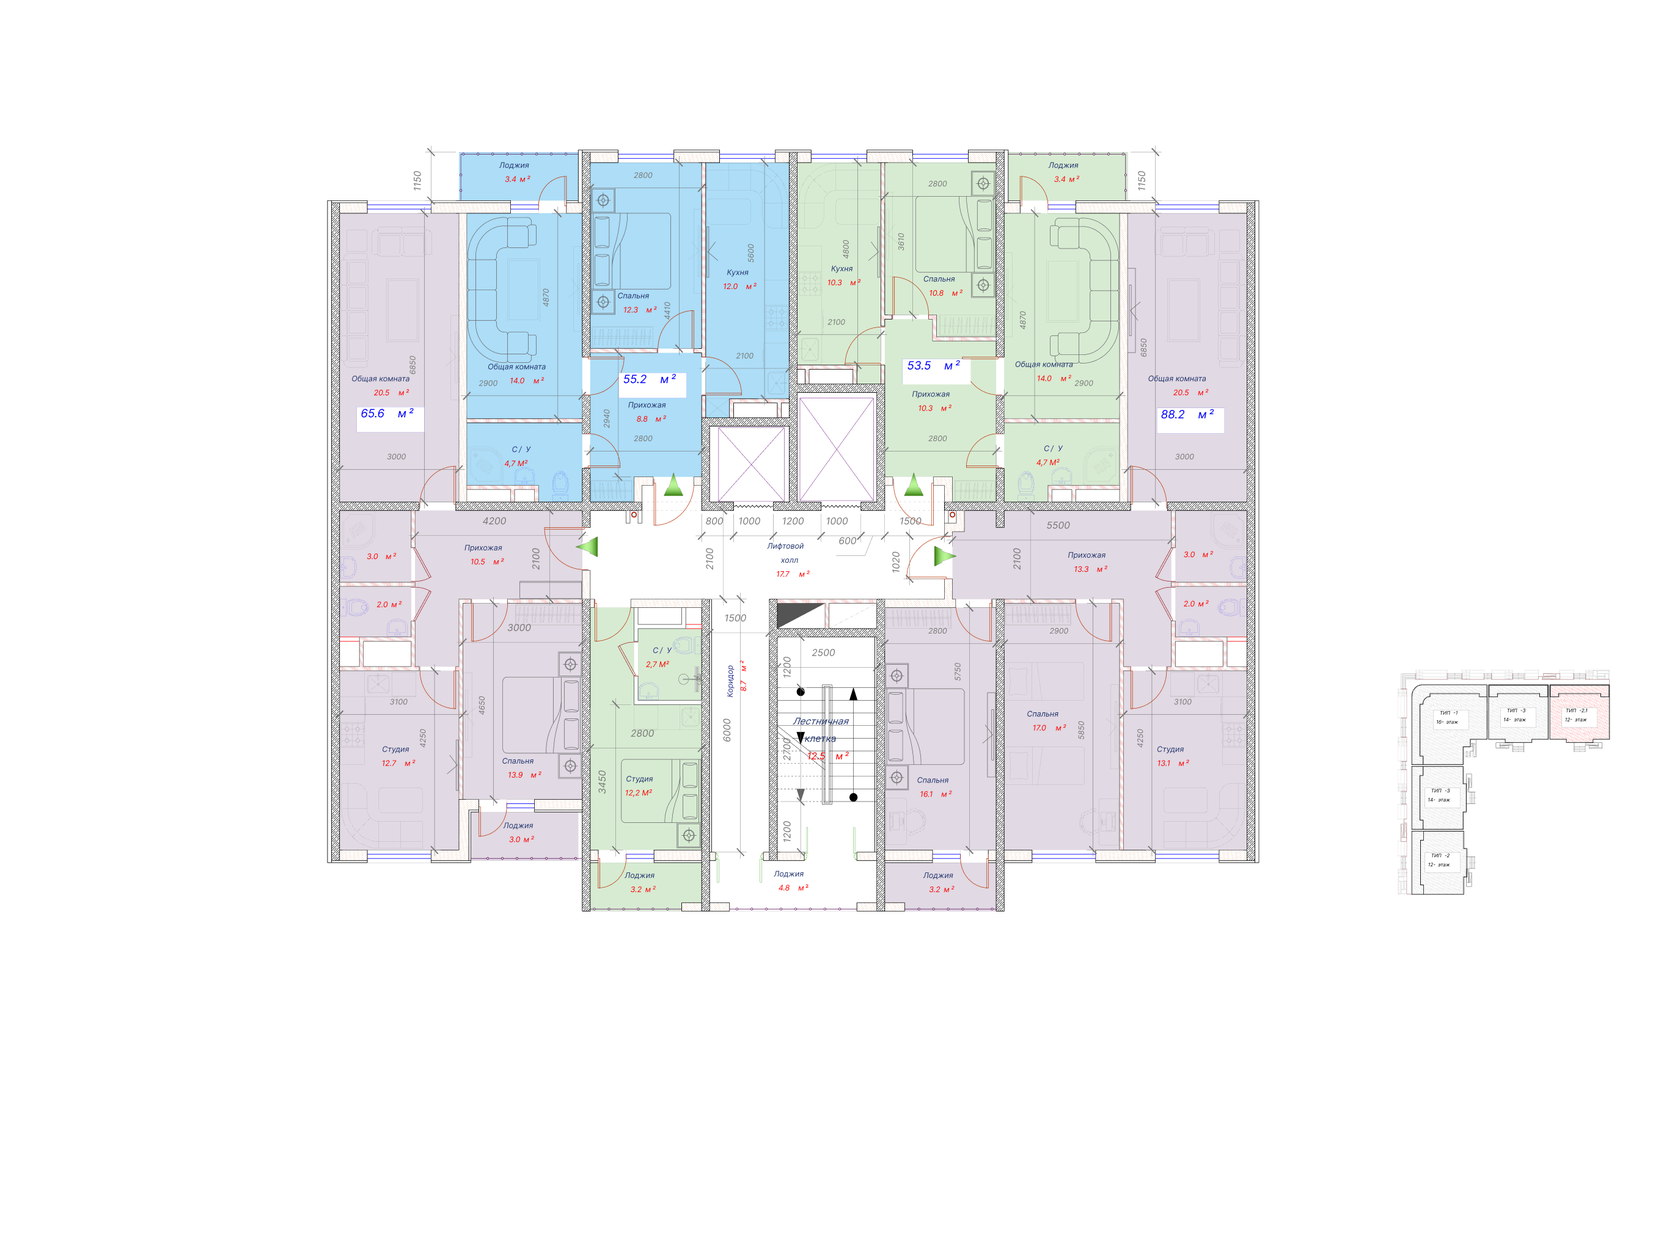
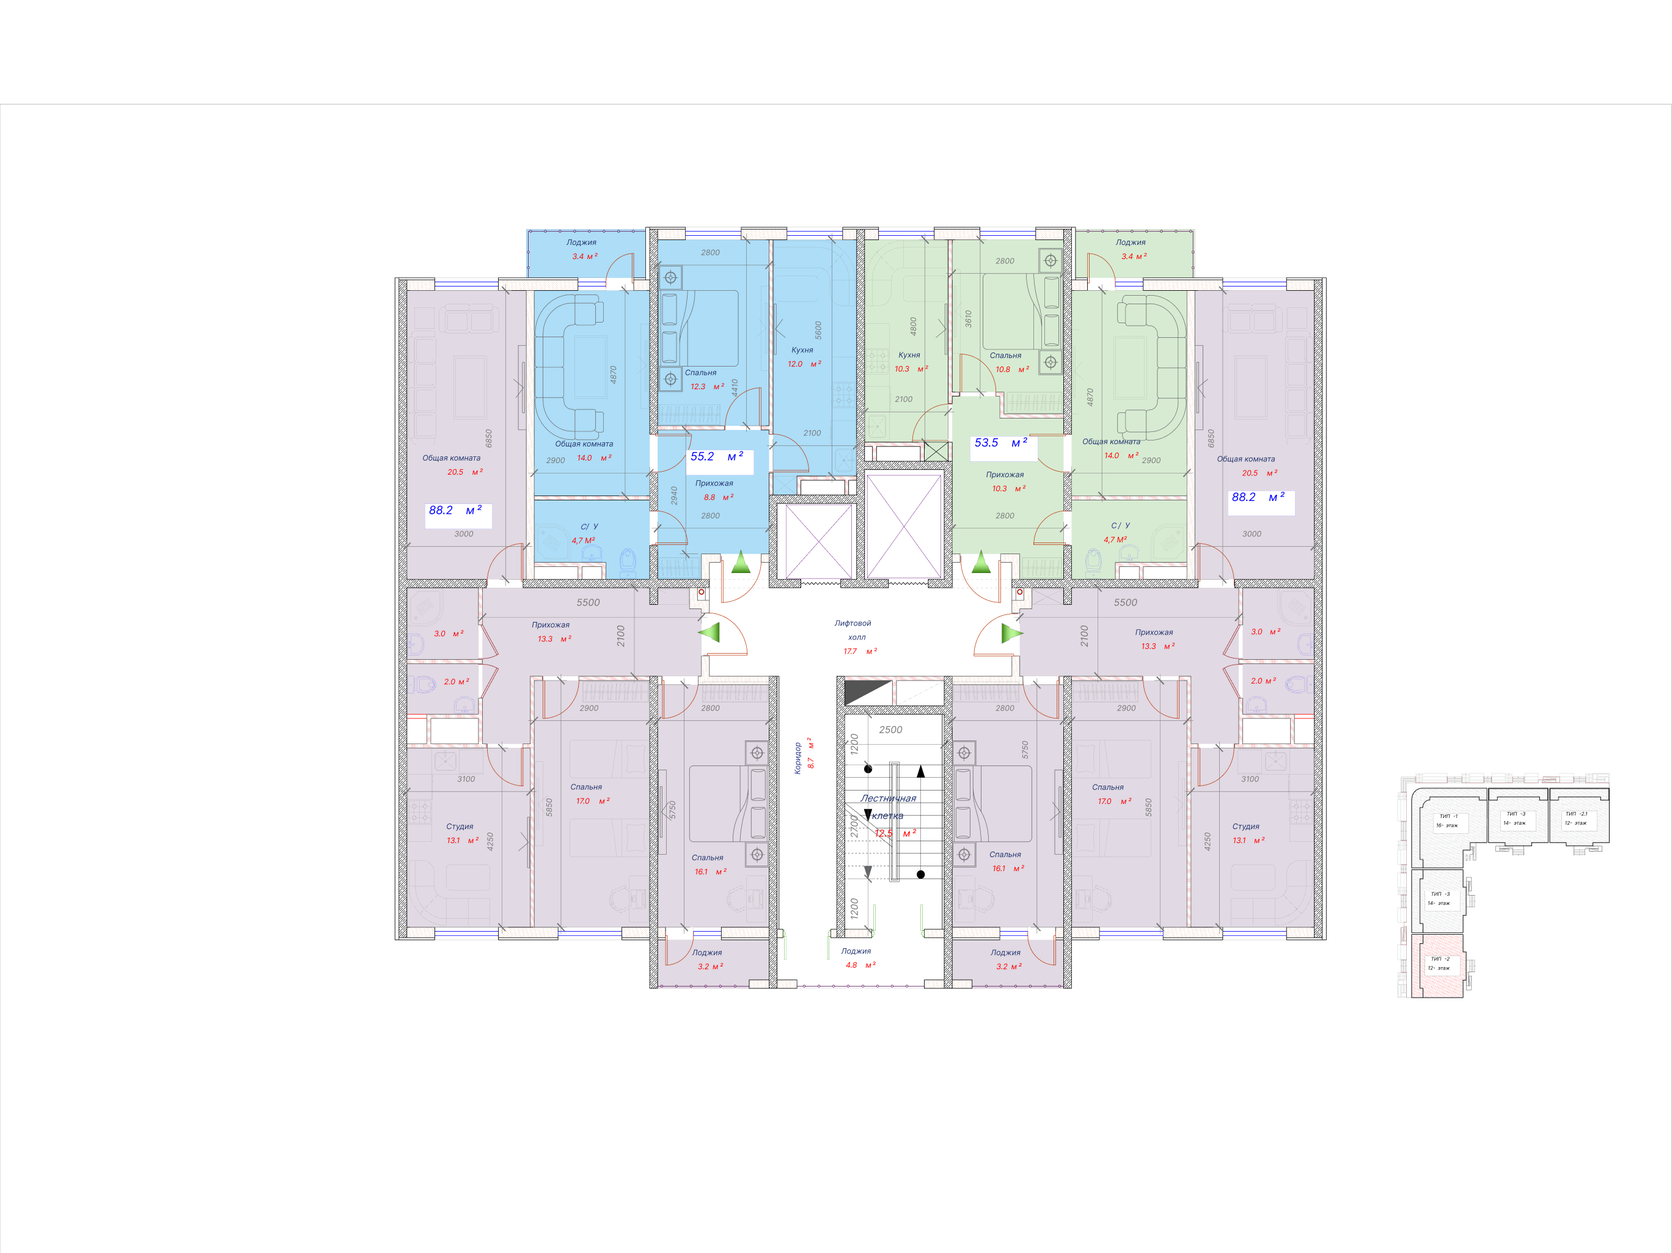
ready all blocks

Changed region(s): [[0.1864, 0.0936, 0.8077, 0.8113], [0.8388, 0.5305, 0.9631, 0.8113]]

diff --git a/src/data/floorData.js b/src/data/floorData.js
@@ -5,18 +5,87 @@ export const floorData = {
                 viewBox: "0 0 2736 2051",
                 image: '1-Block-Floors-2-12',
                 apartments: [
-                    { id: 'apartment-1', d: "M960.199 1492.18V980.726H1154.35V1492.18H960.199Z", text: "1-xonadon", area: 18.1, rooms: '1' },
-                    { id: 'apartment-2', d: "M536.152 330.64H752.238H760.361V831.766H960.2V1410.39L536.965 1415.55L536.152 330.64Z", text: "2-xonadon", area: 65.6, rooms: '2' },
-                    { id: 'apartment-3', d: "M750.613 248.841V330.64H760.361V831.766L1155.16 827.46V688.833H1298.14V248.841H750.613Z", text: "3-xonadon", area: 55.2, rooms: '2' },
-                    { id: 'apartment-4', d: "M1839.98 248.841H1298.14V636.309H1441.11V828.322H1839.98V248.841Z", text: "4-xonadon", area: 53.5, rooms: '2' },
-                    { id: 'apartment-5', d: "M2060.12 331.501H1840.79L1839.98 828.322H1551.59V980.726H1439.49V1492.18L1643.39 1489.6V1411.25H2060.12V331.501Z", text: "5-xonadon", area: 88.2, rooms: '3' },
+                    { id: 'apartment-1', d: "M1265.5 1107.5V1618H1062V1539H646.5V466H869V954.5H1141.5V984H1162V1107.5H1265.5Z", text: "1-xonadon", area: 88.2, rooms: '3' },
+                    { id: 'apartment-2', d: "M1161 954.5H1141.5H869V466H860.5L861.5 375L1408 371.5V818.5H1264.5V920.5H1161V954.5Z", text: "2-xonadon", area: 52.2, rooms: '2' },
+                    { id: 'apartment-3', d: "M1550 763.5H1408V376H1949V955H1550V763.5Z", text: "3-xonadon", area: 53.5, rooms: '2' },
+                    { id: 'apartment-4', d: "M2170.5 454.5H1949V955H1655V1106H1552V1618H1754V1538.5H2170.5V454.5Z", text: "4-xonadon", area: 88.2, rooms: '3' },
                 ],
                 appliesTo: [3, 4, 5, 6, 7, 8, 9, 10, 11, 12]
+            },
+            // 1-qavat rejasi (do'konlar)
+            'floor-1': {
+                viewBox: "0 0 2736 2051",
+                image: 'Block1-Floor-1',
+                apartments: [
+                    { id: 'apartment-1', d: "M940 465.5H614V1544L936 1535.5V1606H1090.5V1214H1004.5V1087.5H940V465.5Z", text: "1-do'kon", area: 140.0, rooms: '1' },
+                    { id: 'apartment-2', d: "M940 987V465.5H1204.5V987H940Z", text: "2-do'kon", area: 46.7, rooms: '1' },
+                    { id: 'apartment-3', d: "M1204.5 943V465.5H1469.5V1603H1310.5V943H1204.5Z", text: "3-do'kon", area: 76.5, rooms: '1' },
+                    { id: 'apartment-4', d: "M1469.5 1541.5V465.5H1794.5V1541.5H1469.5Z", text: "4-do'kon", area: 118.0, rooms: '1' },
+                ],
+                appliesTo: [1]
+            },
+            // 13-qavat rejasi
+            'floor-13': {
+                viewBox: "0 0 2736 2051",
+                image: 'Block1-Floor-13',
+                apartments: [
+                    { id: 'apartment-1', d: "M1048 767.5H719.5L718.5 1380.5H1042V1444.5H1207V1043.5H1120V924.5H1048V767.5Z", text: "1-xonadon", area: 101.8, rooms: '3' },
+                    { id: 'apartment-2', d: "M1576.5 768H1909.5L1910 1380.5H1588V1445H1427.5V1043.5H1508.5V918H1576.5V768Z", text: "2-xonadon", area: 101.3, rooms: '3' },
+                ],
+                appliesTo: [13]
+            },
+            // 2-qavat rejasi
+            'floor-2': {
+                viewBox: "0 0 2736 2051",
+                image: 'Block1-Floor-2',
+                apartments: [
+                    { id: 'apartment-1', d: "M723 353.5H553.5V1445.5H879.5V1510.5H1040.5V1105H955V985.5H723V353.5Z", text: "1-xonadon", area: 92, rooms: '3' },
+                    { id: 'apartment-2', d: "M1151.5 353.5H723V985.5H1038.5V876.5H1151.5V353.5Z", text: "2-xonadon", area: 62.4, rooms: '2' },
+                    { id: 'apartment-3', d: "M1578.5 353.5H1151.5V833.5H1261V985.5H1578.5V353.5Z", text: "3-xonadon", area: 60.8, rooms: '2' },
+                    { id: 'apartment-4', d: "M1578.5 985.5V353.5H1749.5V1445H1423V1511H1262V1108.5H1346V985.5H1578.5Z", text: "4-xonadon", area: 92, rooms: '3' },
+                ],
+                appliesTo: [2]
             }
         }
     },
     '2': {
         floorPlans: {
+            // 1-qavat rejasi
+            'floor-1': {
+                viewBox: "0 0 2736 2051",
+                image: '2-4-Block-Floor-1',
+                apartments: [
+                    { id: 'apartment-1', d: "M1074.5 472H778.5V1459.5H1074.5V472Z", text: "1-do'kon", area: 118, rooms: '1' },
+                    { id: 'apartment-2', d: "M1318.5 946H1074.5V471H1318.5V946Z", text: "2-do'kon", area: 46.7, rooms: '1' },
+                    { id: 'apartment-3', d: "M1318.5 907.5V471.5H1565.5V1519.5L1280.5 1522V1158.5H1422V907.5H1318.5Z", text: "3-do'kon", area: 96.7, rooms: '1' },
+                    { id: 'apartment-4', d: "M1565.5 1464.5V471.5H1866L1871 1464.5H1565.5Z", text: "4-do'kon", area: 118, rooms: '1' },
+                ],
+                appliesTo: [1]
+            },
+            // 2-qavat rejasi
+            'floor-2': {
+                viewBox: "0 0 1904 1363",
+                image: '2-4-Block-Floor-2',
+                apartments: [
+                    { id: 'apartment-1', d: "M560 181.5H435L434.5 937.5H561V983H676.5V619.5H560V181.5Z", text: "1-xonadon", area: 73.2, rooms: '2' },
+                    { id: 'apartment-2', d: "M560 619.5V181.5H874V545H790.5V619.5H676.5H560Z", text: "2-xonadon", area: 63.5, rooms: '2' },
+                    { id: 'apartment-3', d: "M874 515V181.5H1187.5V619.5H957V515H874Z", text: "3-xonadon", area: 61.7, rooms: '2' },
+                    { id: 'apartment-4', d: "M1187.5 619.5V181.5H1313V938.5H1188V983.5H1070V619.5H1187.5Z", text: "4-xonadon", area: 73.2, rooms: '2' },
+                    { id: 'apartment-5', d: "M1070 703H840.5L840 983H1070V703Z", text: "5-xonadon", area: 37.3, rooms: '1' },
+                ],
+                appliesTo: [2]
+            },
+            // 15-qavat rejasi
+            'floor-15': {
+                viewBox: "0 0 2736 2051",
+                image: '2-4-Block-Floor-15',
+                apartments: [
+                    { id: 'apartment-1', d: "M707.5 719H317.5L317 1399H515V1468.5H707.5V719Z", text: "1-xonadon", area: 83.1, rooms: '2' },
+                    { id: 'apartment-2', d: "M958 1023.5V1469.5H1324.5V1023.5H958Z", text: "2-xonadon", area: 37.3, rooms: '1' },
+                    { id: 'apartment-3', d: "M1511 1468H1325V715H1713.5V1400.5H1511V1468Z", text: "3-xonadon", area: 82.6, rooms: '2' },
+                ],
+                appliesTo: [15]
+            },
             'default': {
                 viewBox: "0 0 2736 2051",
                 image: '2-4-Block-Floors-3-14',
@@ -33,6 +102,42 @@ export const floorData = {
     },
     '4': {
         floorPlans: {
+            // 1-qavat rejasi
+            'floor-1': {
+                viewBox: "0 0 2736 2051",
+                image: '2-4-Block-Floor-1',
+                apartments: [
+                    { id: 'apartment-1', d: "M1074.5 472H778.5V1459.5H1074.5V472Z", text: "1-do'kon", area: 118, rooms: '1' },
+                    { id: 'apartment-2', d: "M1318.5 946H1074.5V471H1318.5V946Z", text: "2-do'kon", area: 46.7, rooms: '1' },
+                    { id: 'apartment-3', d: "M1318.5 907.5V471.5H1565.5V1519.5L1280.5 1522V1158.5H1422V907.5H1318.5Z", text: "3-do'kon", area: 96.7, rooms: '1' },
+                    { id: 'apartment-4', d: "M1565.5 1464.5V471.5H1866L1871 1464.5H1565.5Z", text: "4-do'kon", area: 118, rooms: '1' },
+                ],
+                appliesTo: [1]
+            },
+            // 2-qavat rejasi
+            'floor-2': {
+                viewBox: "0 0 1904 1363",
+                image: '2-4-Block-Floor-2',
+                apartments: [
+                    { id: 'apartment-1', d: "M560 181.5H435L434.5 937.5H561V983H676.5V619.5H560V181.5Z", text: "1-xonadon", area: 73.2, rooms: '2' },
+                    { id: 'apartment-2', d: "M560 619.5V181.5H874V545H790.5V619.5H676.5H560Z", text: "2-xonadon", area: 63.5, rooms: '2' },
+                    { id: 'apartment-3', d: "M874 515V181.5H1187.5V619.5H957V515H874Z", text: "3-xonadon", area: 61.7, rooms: '2' },
+                    { id: 'apartment-4', d: "M1187.5 619.5V181.5H1313V938.5H1188V983.5H1070V619.5H1187.5Z", text: "4-xonadon", area: 73.2, rooms: '2' },
+                    { id: 'apartment-5', d: "M1070 703H840.5L840 983H1070V703Z", text: "5-xonadon", area: 37.3, rooms: '1' },
+                ],
+                appliesTo: [2]
+            },
+            // 15-qavat rejasi
+            'floor-15': {
+                viewBox: "0 0 2736 2051",
+                image: '2-4-Block-Floor-15',
+                apartments: [
+                    { id: 'apartment-1', d: "M707.5 719H317.5L317 1399H515V1468.5H707.5V719Z", text: "1-xonadon", area: 83.1, rooms: '2' },
+                    { id: 'apartment-2', d: "M958 1023.5V1469.5H1324.5V1023.5H958Z", text: "2-xonadon", area: 37.3, rooms: '1' },
+                    { id: 'apartment-3', d: "M1511 1468H1325V715H1713.5V1400.5H1511V1468Z", text: "3-xonadon", area: 82.6, rooms: '2' },
+                ],
+                appliesTo: [15]
+            },
             'default': {
                 viewBox: "0 0 2736 2051",
                 image: '2-4-Block-Floors-3-14',
@@ -50,6 +155,33 @@ export const floorData = {
     '3': {
         // Block 3: qavatlar 3-16 bir xil planga ega
         floorPlans: {
+            // 1-qavat rejasi
+            'floor-1': {
+                viewBox: "0 0 2141 1605",
+                image: '3-Block-Floor-1',
+                apartments: [
+                    { id: 'apartment-1', d: "M1178 1182.5V1006H674V1178.5L1178 1182.5Z", text: "1-do'kon", area: 121.4, rooms: '1' },
+                    { id: 'apartment-2', d: "M1069.5 1006H674V817H1069.5V1006Z", text: "2-do'kon", area: 100.5, rooms: '1' },
+                    { id: 'apartment-3', d: "M1070 817H674V655.5H1021V736.5H1097V795H1070V817Z", text: "3-do'kon", area: 85.2, rooms: '1' },
+                    { id: 'apartment-4', d: "M1021.5 655H674V495C682.505 442.855 698.279 420.659 755 394H1021.5V655Z", text: "4-do'kon", area: 120.2, rooms: '1' },
+                    { id: 'apartment-5', d: "M1022 736V394H1250V793L1098.5 795.5V736H1022Z", text: "5-do'kon", area: 118.5, rooms: '1' },
+                    { id: 'apartment-6', d: "M1417.5 394.5H1250V934H1417.5V394.5Z", text: "6-do'kon", area: 121.5, rooms: '1' },
+                ],
+                appliesTo: [1]
+            },
+            // 2-qavat rejasi
+            'floor-2': {
+                viewBox: "0 0 2736 2051",
+                image: '3-Block-Floor-2',
+                apartments: [
+                    { id: 'apartment-1', d: "M1297.5 1288H1105V1380.5H428V1722H1416.5V1375.5H1297.5V1288Z", text: "1-xonadon", area: 102.9, rooms: '4' },
+                    { id: 'apartment-2', d: "M1105 1020V1380.5H428.5V1020H1105Z", text: "2-xonadon", area: 69.8, rooms: '2' },
+                    { id: 'apartment-3', d: "M1104.5 212.5V1020H429.5C429.5 1020 430.5 512.5 430 418.5C429.5 324.5 508.5 212.5 623 212.5H1104.5Z", text: "3-xonadon", area: 128.7, rooms: '3' },
+                    { id: 'apartment-4', d: "M1549 870.5H1104.5V214H1549V870.5Z", text: "4-xonadon", area: 81.6, rooms: '3' },
+                    { id: 'apartment-5', d: "M1549 1241.5V214H1876V1241.5H1549Z", text: "5-xonadon", area: 97.6, rooms: '4' },
+                ],
+                appliesTo: [2]
+            },
             // default plan - qavatlar 3 dan 16 gacha
             'default': {
                 viewBox: "0 0 2736 2051",
@@ -68,16 +200,52 @@ export const floorData = {
     },
     '5': {
         floorPlans: {
+            // 1-qavat rejasi (do'konlar) - Blok 1 bilan bir xil
+            'floor-1': {
+                viewBox: "0 0 2736 2051",
+                image: 'Block5-floor1',
+                apartments: [
+                    { id: 'apartment-1', d: "M940 465.5H614V1544L936 1535.5V1606H1090.5V1214H1004.5V1087.5H940V465.5Z", text: "1-do'kon", area: 140.0, rooms: '1' },
+                    { id: 'apartment-2', d: "M940 987V465.5H1204.5V987H940Z", text: "2-do'kon", area: 46.7, rooms: '1' },
+                    { id: 'apartment-3', d: "M1204.5 943V465.5H1469.5V1603H1310.5V943H1204.5Z", text: "3-do'kon", area: 76.5, rooms: '1' },
+                    { id: 'apartment-4', d: "M1469.5 1541.5V465.5H1794.5V1541.5H1469.5Z", text: "4-do'kon", area: 118.0, rooms: '1' },
+                ],
+                appliesTo: [1]
+            },
+            // 2-qavat rejasi
+            'floor-2': {
+                viewBox: "0 0 2736 2051",
+                image: 'Block5-Floor-2',
+                apartments: [
+                    { id: 'apartment-1', d: "M1053 1046.5H885V1490.5H1053V1046.5Z", text: "1-xonadon", area: 18.1, rooms: '1' },
+                    { id: 'apartment-2', d: "M721 217.5H538V1419H885V914H721V217.5Z", text: "2-xonadon", area: 69.4, rooms: '2' },
+                    { id: 'apartment-3', d: "M721 914V217.5H1163.5V799.5H1047V914H885H721Z", text: "3-xonadon", area: 62.4, rooms: '2' },
+                    { id: 'apartment-4', d: "M1163.5 747.5V217.5H1606.5V913.5H1441H1280.5V747.5H1163.5Z", text: "4-xonadon", area: 60.8, rooms: '2' },
+                    { id: 'apartment-5', d: "M1606.5 913.5V217.5H1783L1788.5 1419H1447.5V1491.5H1280V1046.5H1365V913.5H1606.5Z", text: "5-xonadon", area: 92, rooms: '3' },
+                ],
+                appliesTo: [2]
+            },
             'default': {
                 viewBox: "0 0 2736 2051",
                 image: '5-Block-Floors-3-12',
                 apartments: [
-                    { id: 'apartment-1', d: "M1265.5 1107.5V1618H1062V1539H646.5V466H869V954.5H1141.5V984H1162V1107.5H1265.5Z", text: "1-xonadon", area: 88.2, rooms: '3' },
-                    { id: 'apartment-2', d: "M1161 954.5H1141.5H869V466H860.5L861.5 375L1408 371.5V818.5H1264.5V920.5H1161V954.5Z", text: "2-xonadon", area: 52.2, rooms: '2' },
-                    { id: 'apartment-3', d: "M1550 763.5H1408V376H1949V955H1550V763.5Z", text: "3-xonadon", area: 53.5, rooms: '2' },
-                    { id: 'apartment-4', d: "M2170.5 454.5H1949V955H1655V1106H1552V1618H1754V1538.5H2170.5V454.5Z", text: "4-xonadon", area: 88.2, rooms: '3' },
+                    { id: 'apartment-1', d: "M960.199 1492.18V980.726H1154.35V1492.18H960.199Z", text: "1-xonadon", area: 18.1, rooms: '1' },
+                    { id: 'apartment-2', d: "M536.152 330.64H752.238H760.361V831.766H960.2V1410.39L536.965 1415.55L536.152 330.64Z", text: "2-xonadon", area: 73.9, rooms: '2' },
+                    { id: 'apartment-3', d: "M750.613 248.841V330.64H760.361V831.766L1155.16 827.46V688.833H1298.14V248.841H750.613Z", text: "3-xonadon", area: 55.2, rooms: '2' },
+                    { id: 'apartment-4', d: "M1839.98 248.841H1298.14V636.309H1441.11V828.322H1839.98V248.841Z", text: "4-xonadon", area: 53.5, rooms: '2' },
+                    { id: 'apartment-5', d: "M2060.12 331.501H1840.79L1839.98 828.322H1551.59V980.726H1439.49V1492.18L1643.39 1489.6V1411.25H2060.12V331.501Z", text: "5-xonadon", area: 88.2, rooms: '3' },
                 ],
                 appliesTo: [3, 4, 5, 6, 7, 8, 9, 10, 11, 12]
+            },
+            // 13-qavat rejasi - Blok 1 bilan SVG bir xil
+            'floor-13': {
+                viewBox: "0 0 2736 2051",
+                image: 'Block5-Floor-13',
+                apartments: [
+                    { id: 'apartment-1', d: "M1048 767.5H719.5L718.5 1380.5H1042V1444.5H1207V1043.5H1120V924.5H1048V767.5Z", text: "1-xonadon", area: 101.8, rooms: '3' },
+                    { id: 'apartment-2', d: "M1576.5 768H1909.5L1910 1380.5H1588V1445H1427.5V1043.5H1508.5V918H1576.5V768Z", text: "2-xonadon", area: 101.3, rooms: '3' },
+                ],
+                appliesTo: [13]
             }
         }
     }

diff --git a/src/ApartmentDetail.jsx b/src/ApartmentDetail.jsx
@@ -11,13 +11,35 @@ import Floor3Block3 from './Images/floors/3-Block-Floors3-16.png';
 import Floor2Block1 from './Images/floors/1-Block-Floors-3-12.png';
 import Floor2_4Block2_4 from './Images/floors/2-4-Block-Floors-3-14.png';
 import Floor5Block5 from './Images/floors/5-Block-Floors-3-12.png';
+import Floor2Block3 from './Images/floors/3-Block-Floor-2.png';
+import Floor1Block3 from './Images/floors/3-Block-Floor-1.png';
+import Floor1Block2_4 from './Images/floors/2-4-Block-Floor-1.png';
+import Floor2Block2_4 from './Images/floors/2-4-Block-Floor-2.png';
+import Floor15Block2_4 from './Images/floors/2-4-Block-Floor-15.png';
+import Floor1Block1 from './Images/floors/Block1-Floor-1.png';
+import Floor1Block5 from './Images/floors/Block5-floor1.png';
+import Floor13Block1 from './Images/floors/Block1-Floor-13.png';
+import Floor13Block5 from './Images/floors/Block5-Floor-13.png';
+import Floor2_Block1 from './Images/floors/Block1-Floor-2.png';
+import Floor2_Block5 from './Images/floors/Block5-Floor-2.png';
 
 
 const floorImages = {
     '3-Block-Floors3-16': Floor3Block3,
     '1-Block-Floors-2-12': Floor2Block1,
     '2-4-Block-Floors-3-14': Floor2_4Block2_4,
-    '5-Block-Floors-3-12': Floor5Block5
+    '5-Block-Floors-3-12': Floor5Block5,
+    '3-Block-Floor-2': Floor2Block3,
+    '3-Block-Floor-1': Floor1Block3,
+    '2-4-Block-Floor-1': Floor1Block2_4,
+    '2-4-Block-Floor-2': Floor2Block2_4,
+    '2-4-Block-Floor-15': Floor15Block2_4,
+    'Block1-Floor-1': Floor1Block1,
+    'Block5-floor1': Floor1Block5,
+    'Block1-Floor-13': Floor13Block1,
+    'Block5-Floor-13': Floor13Block5,
+    'Block1-Floor-2': Floor2_Block1,
+    'Block5-Floor-2': Floor2_Block5
 };
 
 
@@ -203,15 +225,17 @@ const ApartmentDetail = () => {
                 top: '50%',
                 left: '10px',
                 transform: 'translateY(-50%)',
-                width: '280px',
+                width: '250px',
                 backgroundColor: 'rgba(255, 255, 255, 0.95)',
                 backdropFilter: 'blur(10px)', padding: '20px', borderRadius: '20px',
                 boxShadow: '0 10px 30px rgba(0,0,0,0.1)', zIndex: 1000,
                 border: '1px solid rgba(0,0,0,0.05)'
             }}>
                 <div style={{ color: '#000' }}>
-                    <h3 style={{ margin: '0 0 10px 0' }}>Xonadon haqida</h3>
-                    <p style={{ margin: '5px 0', opacity: 0.7 }}>Ushbu xonadon {block.name} ning {floorNum + 1}-qavatida joylashgan.</p>
+                    <h3 style={{ margin: '0 0 10px 0' }}>{floorNum + 1 === 1 ? "Do'kon" : "Xonadon"} haqida</h3>
+                    <p style={{ margin: '5px 0', opacity: 0.7 }}>
+                        Ushbu {floorNum + 1 === 1 ? "do'kon" : "xonadon"} {block.name} ning {floorNum + 1}-qavatida joylashgan.
+                    </p>
                     <div style={{ display: 'grid', gridTemplateColumns: '1fr 1fr', gap: '15px', marginTop: '15px' }}>
                         <div style={{ backgroundColor: '#f5f5f7', padding: '10px', borderRadius: '12px' }}>
                             <small style={{ display: 'block', opacity: 0.5 }}>Maydoni</small>
@@ -219,7 +243,7 @@ const ApartmentDetail = () => {
                         </div>
                         <div style={{ backgroundColor: '#f5f5f7', padding: '10px', borderRadius: '12px' }}>
                             <small style={{ display: 'block', opacity: 0.5 }}>Turi</small>
-                            <strong>{apartment.rooms} xonali</strong>
+                            <strong>{floorNum + 1 === 1 ? "Do'kon" : `${apartment.rooms} xonali`}</strong>
                         </div>
                     </div>
                 </div>

diff --git a/src/FloorDetail.jsx b/src/FloorDetail.jsx
@@ -11,13 +11,35 @@ import Floor3Block3 from './Images/floors/3-Block-Floors3-16.png';
 import Floor2Block1 from './Images/floors/1-Block-Floors-3-12.png';
 import Floor2_4Block2_4 from './Images/floors/2-4-Block-Floors-3-14.png';
 import Floor5Block5 from './Images/floors/5-Block-Floors-3-12.png';
+import Floor2Block3 from './Images/floors/3-Block-Floor-2.png';
+import Floor1Block3 from './Images/floors/3-Block-Floor-1.png';
+import Floor1Block2_4 from './Images/floors/2-4-Block-Floor-1.png';
+import Floor2Block2_4 from './Images/floors/2-4-Block-Floor-2.png';
+import Floor15Block2_4 from './Images/floors/2-4-Block-Floor-15.png';
+import Floor1Block1 from './Images/floors/Block1-Floor-1.png';
+import Floor1Block5 from './Images/floors/Block5-floor1.png';
+import Floor13Block1 from './Images/floors/Block1-Floor-13.png';
+import Floor13Block5 from './Images/floors/Block5-Floor-13.png';
+import Floor2_Block1_new from './Images/floors/Block1-Floor-2.png';
+import Floor2_Block5 from './Images/floors/Block5-Floor-2.png';
 
 
 const floorImages = {
     '3-Block-Floors3-16': Floor3Block3,
     '1-Block-Floors-2-12': Floor2Block1,
     '2-4-Block-Floors-3-14': Floor2_4Block2_4,
-    '5-Block-Floors-3-12': Floor5Block5
+    '5-Block-Floors-3-12': Floor5Block5,
+    '3-Block-Floor-2': Floor2Block3,
+    '3-Block-Floor-1': Floor1Block3,
+    '2-4-Block-Floor-1': Floor1Block2_4,
+    '2-4-Block-Floor-2': Floor2Block2_4,
+    '2-4-Block-Floor-15': Floor15Block2_4,
+    'Block1-Floor-1': Floor1Block1,
+    'Block5-floor1': Floor1Block5,
+    'Block1-Floor-13': Floor13Block1,
+    'Block5-Floor-13': Floor13Block5,
+    'Block1-Floor-2': Floor2_Block1_new,
+    'Block5-Floor-2': Floor2_Block5
 };
 
 

diff --git a/vite.config.js b/vite.config.js
@@ -1,7 +1,11 @@
 import { defineConfig } from 'vite'
 import react from '@vitejs/plugin-react-swc'
 
-// https://vite.dev/config/
 export default defineConfig({
   plugins: [react()],
+  server: {
+    host: '0.0.0.0',
+    port: 5173,
+    allowedHosts: true
+  }
 })
